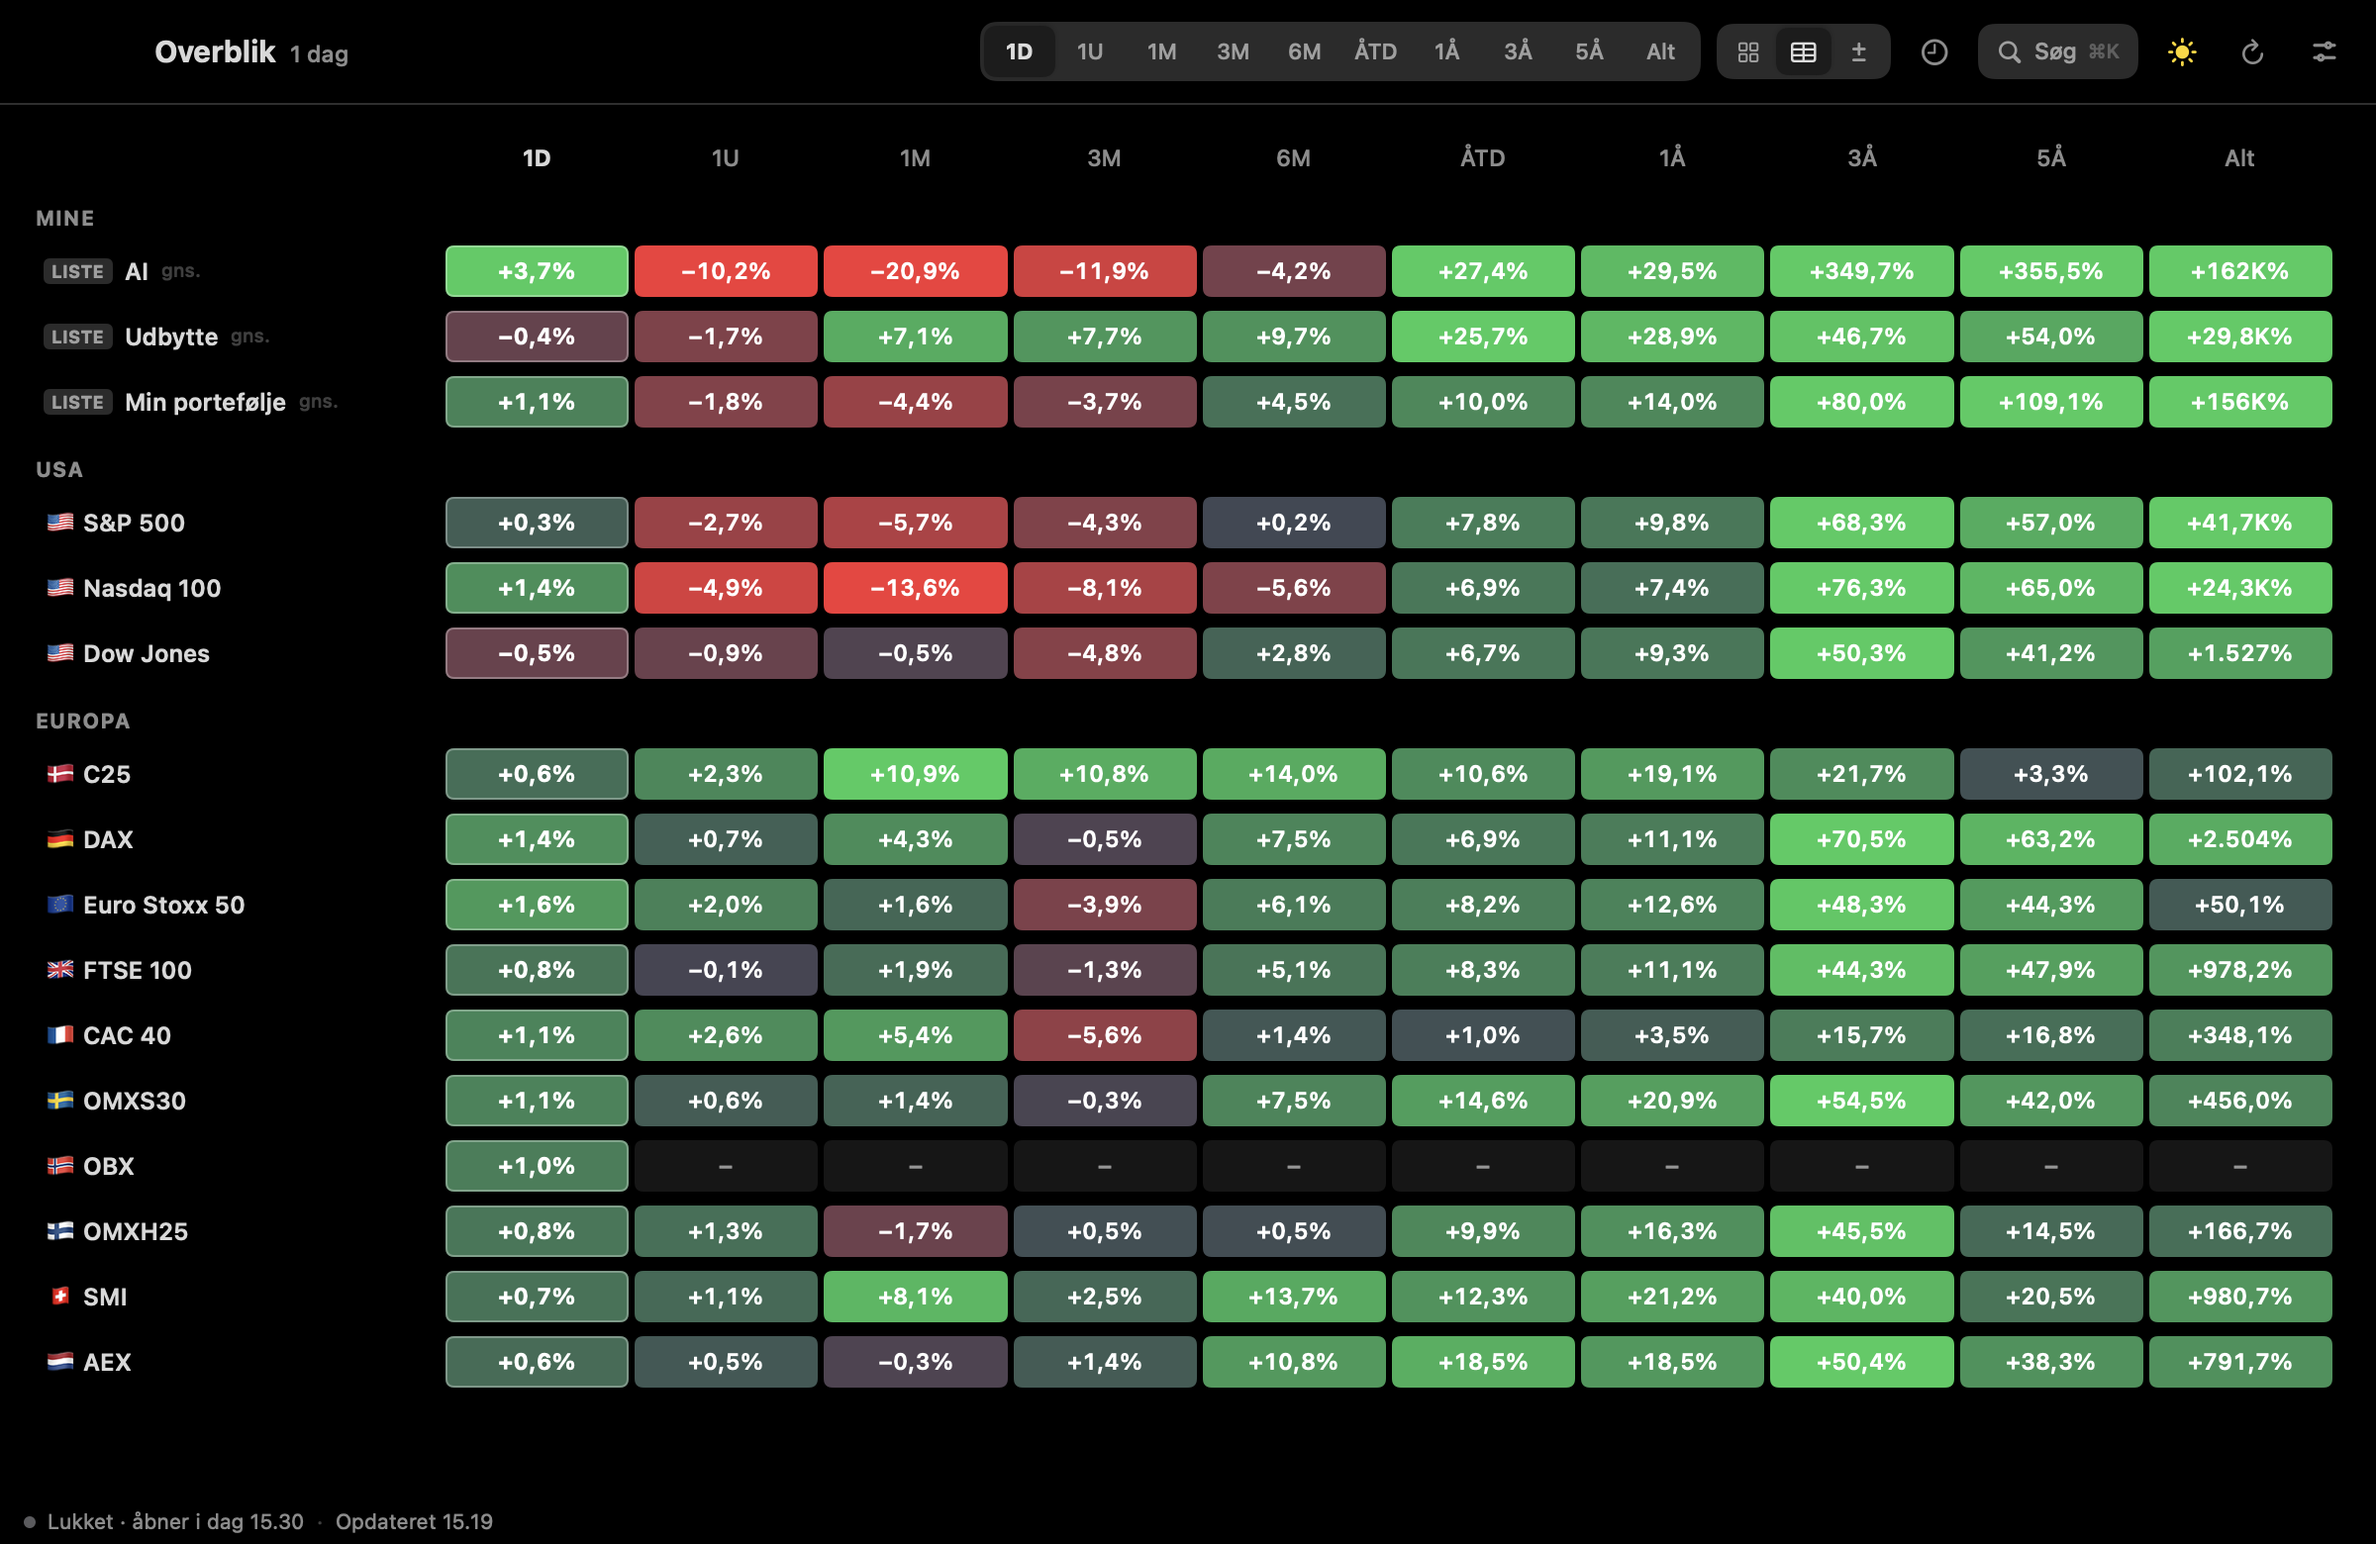
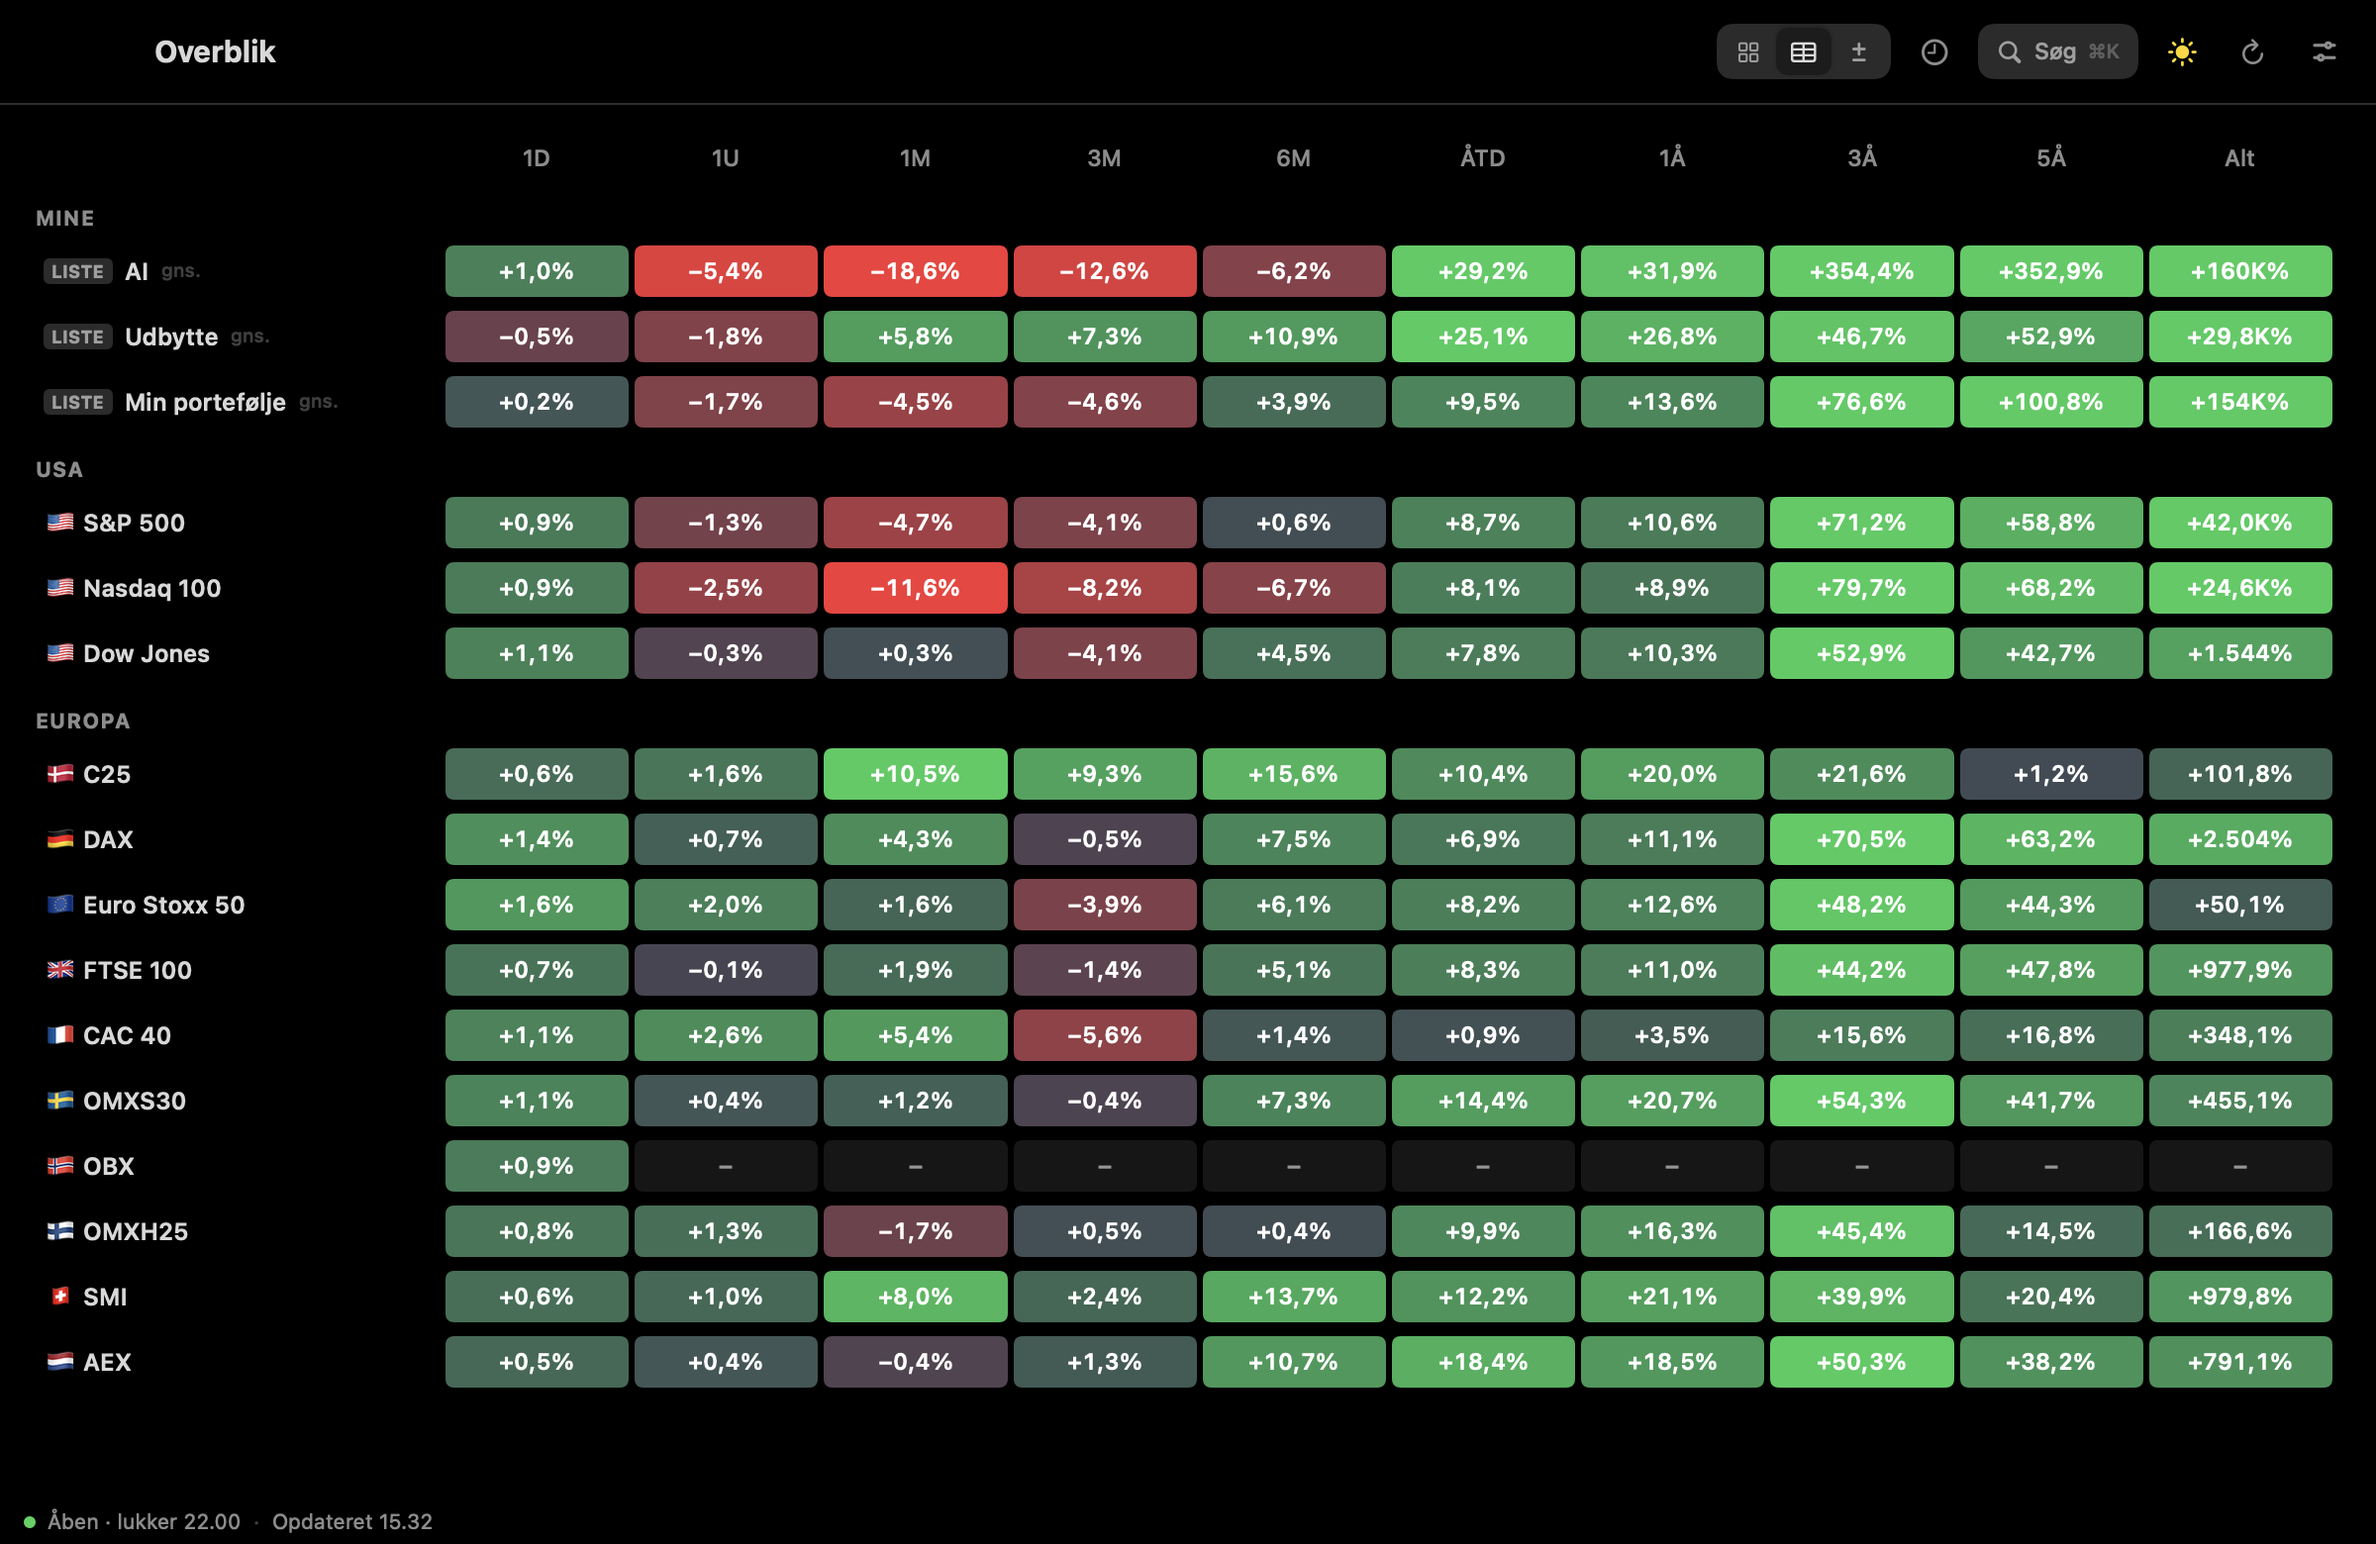
Hide the period picker while the overview shows the table
The table has every range as a column, so the picker, the range under
the title and the outline on the chosen range's column are left out
while it shows.

diff --git a/Sources/Stockmote/OverviewModes.swift b/Sources/Stockmote/OverviewModes.swift
@@ -407,8 +407,8 @@ struct OverviewTable: View {
                         Text(period.label)
                         if sortBy == period { Image(systemName: "chevron.down").font(.system(size: 8, weight: .bold)) }
                     }
-                    .font(.system(size: 11.5, weight: period == market.period || sortBy == period ? .bold : .medium))
-                    .foregroundStyle(period == market.period || sortBy == period ? .primary : .secondary)
+                    .font(.system(size: 11.5, weight: sortBy == period ? .bold : .medium))
+                    .foregroundStyle(sortBy == period ? .primary : .secondary)
                     .frame(maxWidth: .infinity, minHeight: 22)
                     .contentShape(Rectangle())
                 }
@@ -475,17 +475,12 @@ private struct TableRow: View {
         let ink = change == nil ? Color.secondary
             : Heat.label(on: change, scale: period.colorScale, style: prefs.colorStyle, theme: theme)
         return Text(change == nil ? "–" : (figure.isIndicative ? "≈ " : "") + Format.percent(change, digits: 1))
-            .font(.system(size: 11.5, weight: period == market.period || period == sortBy ? .bold : .semibold).monospacedDigit())
+            .font(.system(size: 11.5, weight: period == sortBy ? .bold : .semibold).monospacedDigit())
             .foregroundStyle(ink)
             .lineLimit(1)
             .minimumScaleFactor(0.7)
             .frame(maxWidth: .infinity, minHeight: 26)
             .background(RoundedRectangle(cornerRadius: 4, style: .continuous).fill(fill))
-            .overlay {
-                if period == market.period {
-                    RoundedRectangle(cornerRadius: 4, style: .continuous).strokeBorder(Color.primary.opacity(0.35), lineWidth: 1)
-                }
-            }
             .help(figure.help)
     }
 }

diff --git a/Sources/Stockmote/PanelView.swift b/Sources/Stockmote/PanelView.swift
@@ -175,7 +175,10 @@ private struct Toolbar: View {
 
     private func controls(compact: Bool) -> some View {
         HStack(spacing: 8) {
-            if compact { PeriodMenu() } else { PeriodPicker() }
+            // The overview's table has every range as a column: no picker.
+            if !(app.screen == .overview && prefs.overviewMode == .table) {
+                if compact { PeriodMenu() } else { PeriodPicker() }
+            }
             if app.isMap {
                 SeismographButton()
                 ViewModePicker()
@@ -387,7 +390,7 @@ private struct TitleBlock: View {
 
     private var subtitle: String? {
         if case .stock(let symbol) = app.screen { return market.info(symbol).name }
-        if app.screen == .overview { return market.period.longName }
+        if app.screen == .overview { return prefs.overviewMode == .table ? nil : market.period.longName }
         return nil
     }
 

diff --git a/README.md b/README.md
@@ -73,8 +73,8 @@ an indicative value is not averaged in.
   remembered):
   - **Maps** — the cards with their small maps, as above.
   - **Table** — one row per list and index (in Mine, United States and Europe) and one column per range, 1D to All.
-    Each cell is that row's own figure — the index's, or a list's average — coloured as the map for that range;
-    the chosen range is outlined. Click a range to sort every row by it, best first; click it again for the
+    Each cell is that row's own figure — the index's, or a list's average — coloured as the map for that range.
+    The table has every range, so the period picker is hidden while it shows. Click a range to sort every row by it, best first; click it again for the
     sections. Click a row to open it. Pointing at a cell says how it is measured and where it came from.
   - **Against an index** — every card as its difference to one index you choose above them (S&P 500 until you
     pick another), in percentage points: the card's own figure minus the index's over the same range, green

diff --git a/README.da.md b/README.da.md
@@ -72,8 +72,8 @@ se *Kurser for danske fonde og Nordnets fonde*) og **gennemsnittet** af en liste
   det huskes):
   - **Kort** — kortene med deres små kort, som ovenfor.
   - **Tabel** — én række pr. liste og indeks (i Mine, USA og Europa) og én kolonne pr. tidsrum, 1D til Alt. Hvert
-    felt er rækkens eget tal — indeksets eller listens gennemsnit — farvet som kortet for det tidsrum; det valgte
-    tidsrum har en kant. Klik på et tidsrum for at sortere alle rækker efter det, bedst først; klik igen for
+    felt er rækkens eget tal — indeksets eller listens gennemsnit — farvet som kortet for det tidsrum.
+    Tabellen har alle tidsrum, så tidsvælgeren er skjult, mens den vises. Klik på et tidsrum for at sortere alle rækker efter det, bedst først; klik igen for
     afsnittene. Klik på en række for at åbne den. Peger man på et felt, står der hvordan det er målt, og hvor det
     kommer fra.
   - **Mod indeks** — hvert kort som forskellen til ét indeks, du vælger over dem (S&P 500 indtil du vælger et
